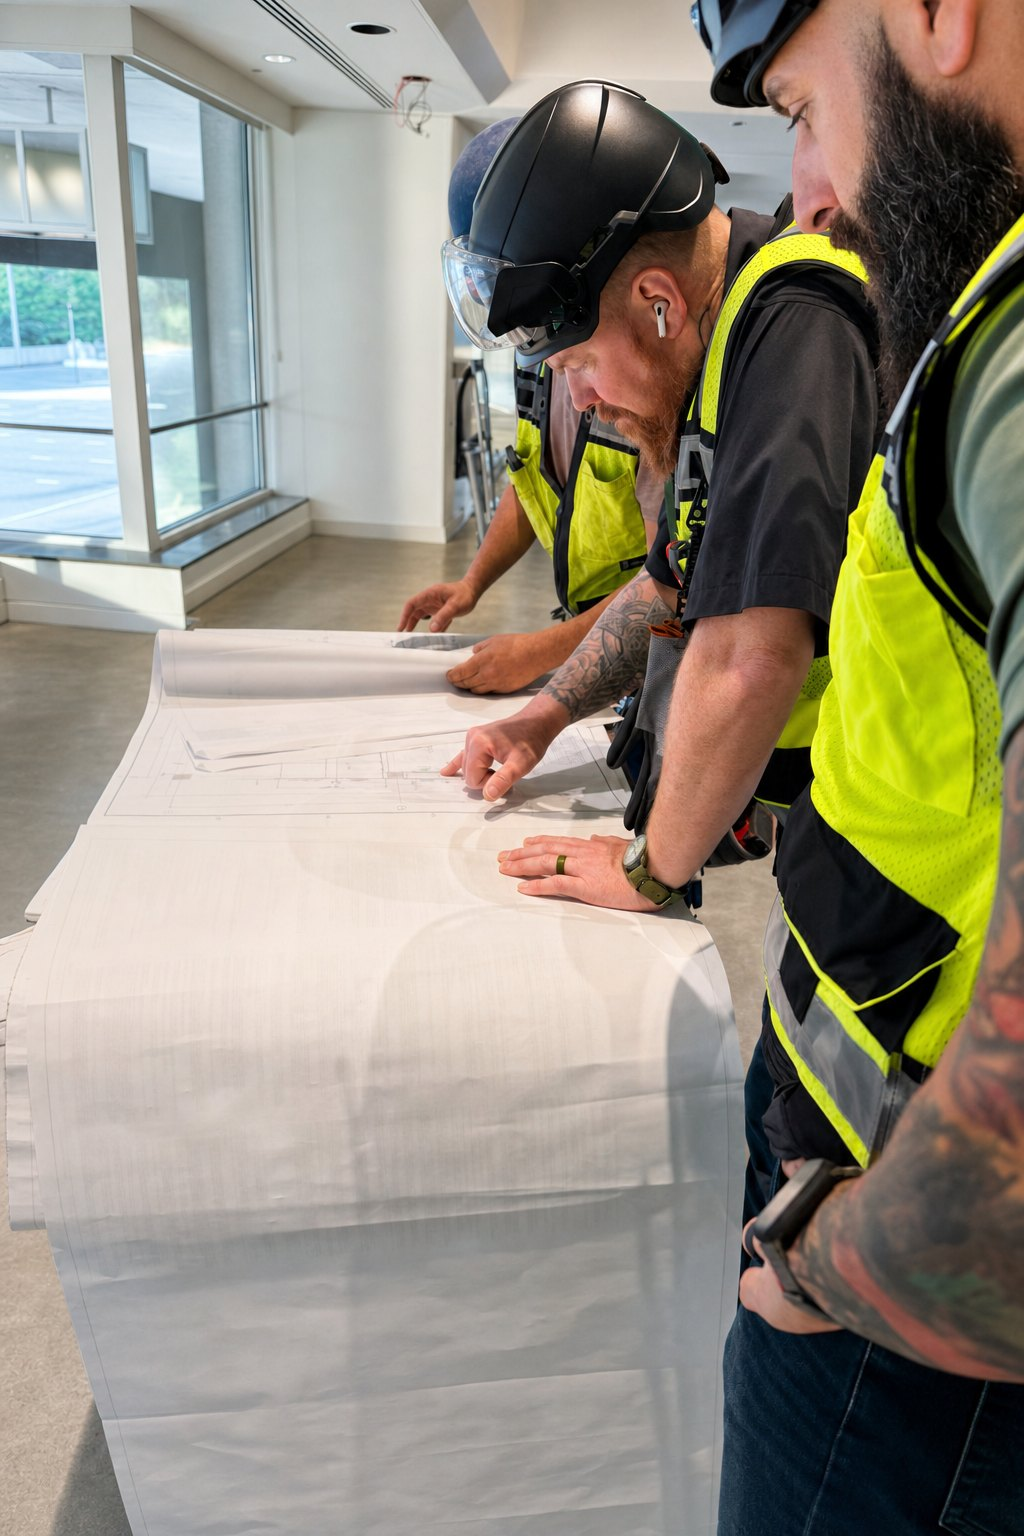
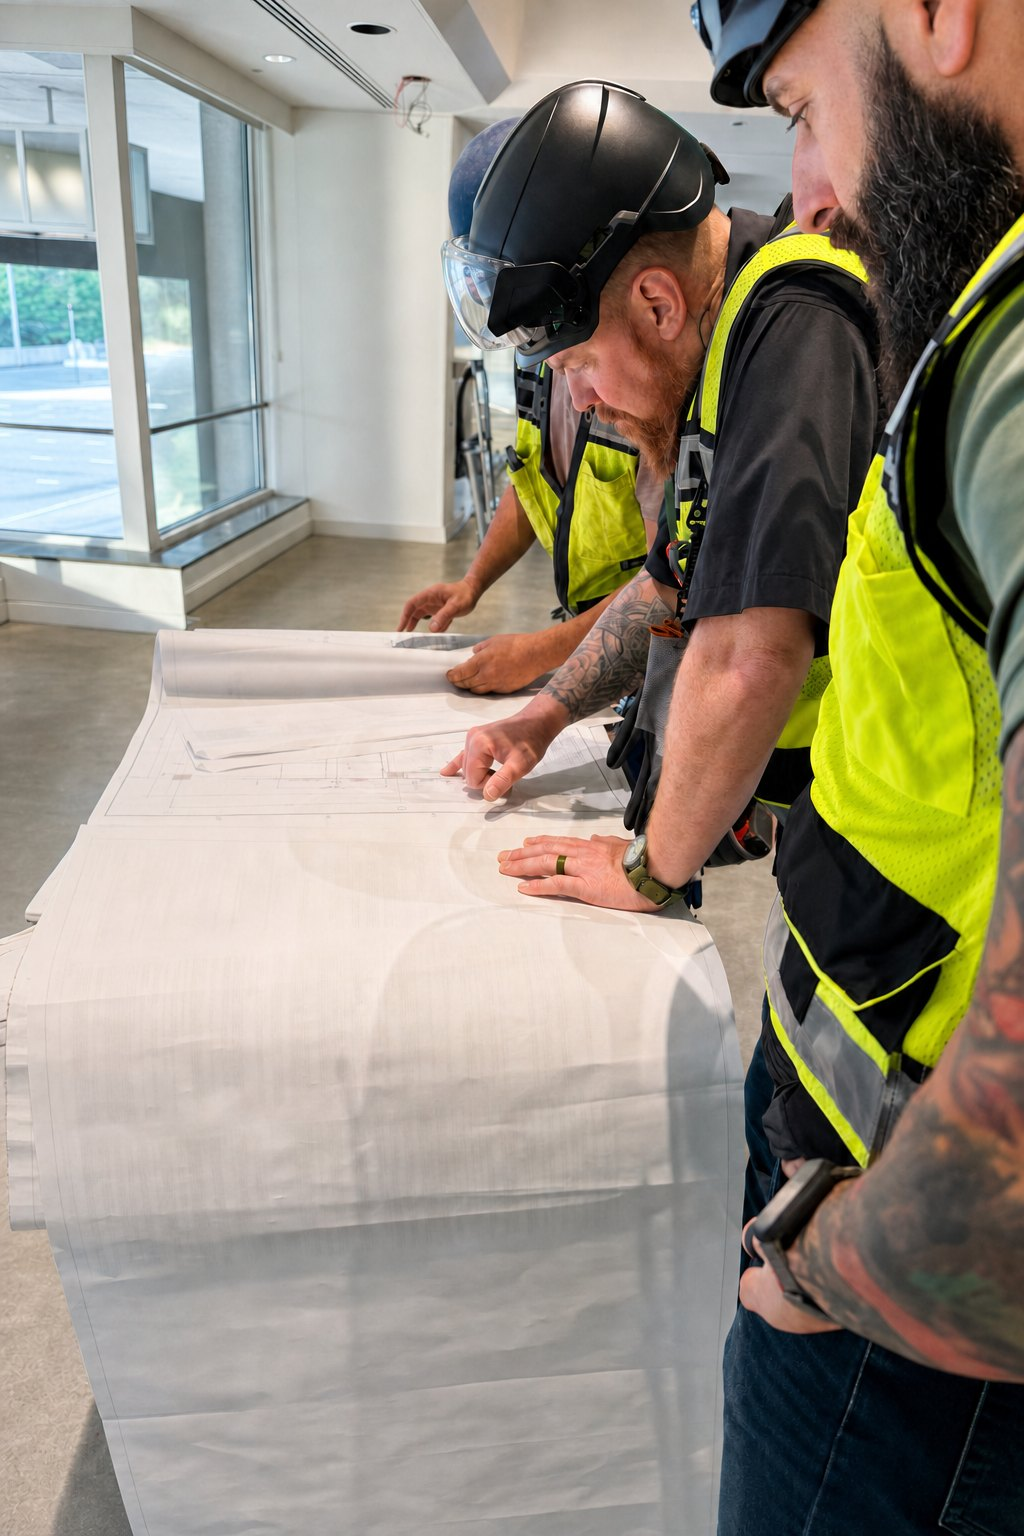
Draft v2: careers photo without earbud, seamless fade on careers/subcontractors hero photos
Claude-Session: https://claude.ai/code/session_01JihLPLkxUgkwC1Q8j47XN2

diff --git a/app/globals.css b/app/globals.css
@@ -696,3 +696,10 @@ footer{background:#161616!important;background-image:none!important}
 @media (max-width:640px){.r-trust-creds{grid-template-columns:1fr}}
 .v-hero-photo img{object-position:50% 25%}
 .v-hero-photo img{object-position:60% 8%}
+/* Inner-page hero photo: softer, wider blend into the dark panel */
+@media (min-width:1101px){.v-hero-photo{width:62%}.v-hero-photo::after{background:linear-gradient(90deg,#161616 0%,rgba(22,22,22,.92) 14%,rgba(22,22,22,.6) 34%,rgba(22,22,22,.22) 58%,rgba(22,22,22,.05) 80%),linear-gradient(0deg,rgba(22,22,22,.55) 0%,rgba(22,22,22,0) 30%)}}
+@media (min-width:1101px){
+.v-hero-photo::after{background:linear-gradient(0deg,rgba(22,22,22,.5) 0%,rgba(22,22,22,0) 28%)!important}
+.v-hero-photo img{-webkit-mask-image:linear-gradient(90deg,transparent 0%,rgba(0,0,0,.25) 16%,rgba(0,0,0,.7) 38%,#000 62%);mask-image:linear-gradient(90deg,transparent 0%,rgba(0,0,0,.25) 16%,rgba(0,0,0,.7) 38%,#000 62%)}}
+.v-page .v-hero-photo img[src*="subs-hoco"]{object-position:50% 62%}
+@media (min-width:1101px){.v-hero-photo::after{background:linear-gradient(180deg,rgba(22,22,22,.75) 0%,rgba(22,22,22,0) 18%),linear-gradient(0deg,rgba(22,22,22,.5) 0%,rgba(22,22,22,0) 28%)!important}}
